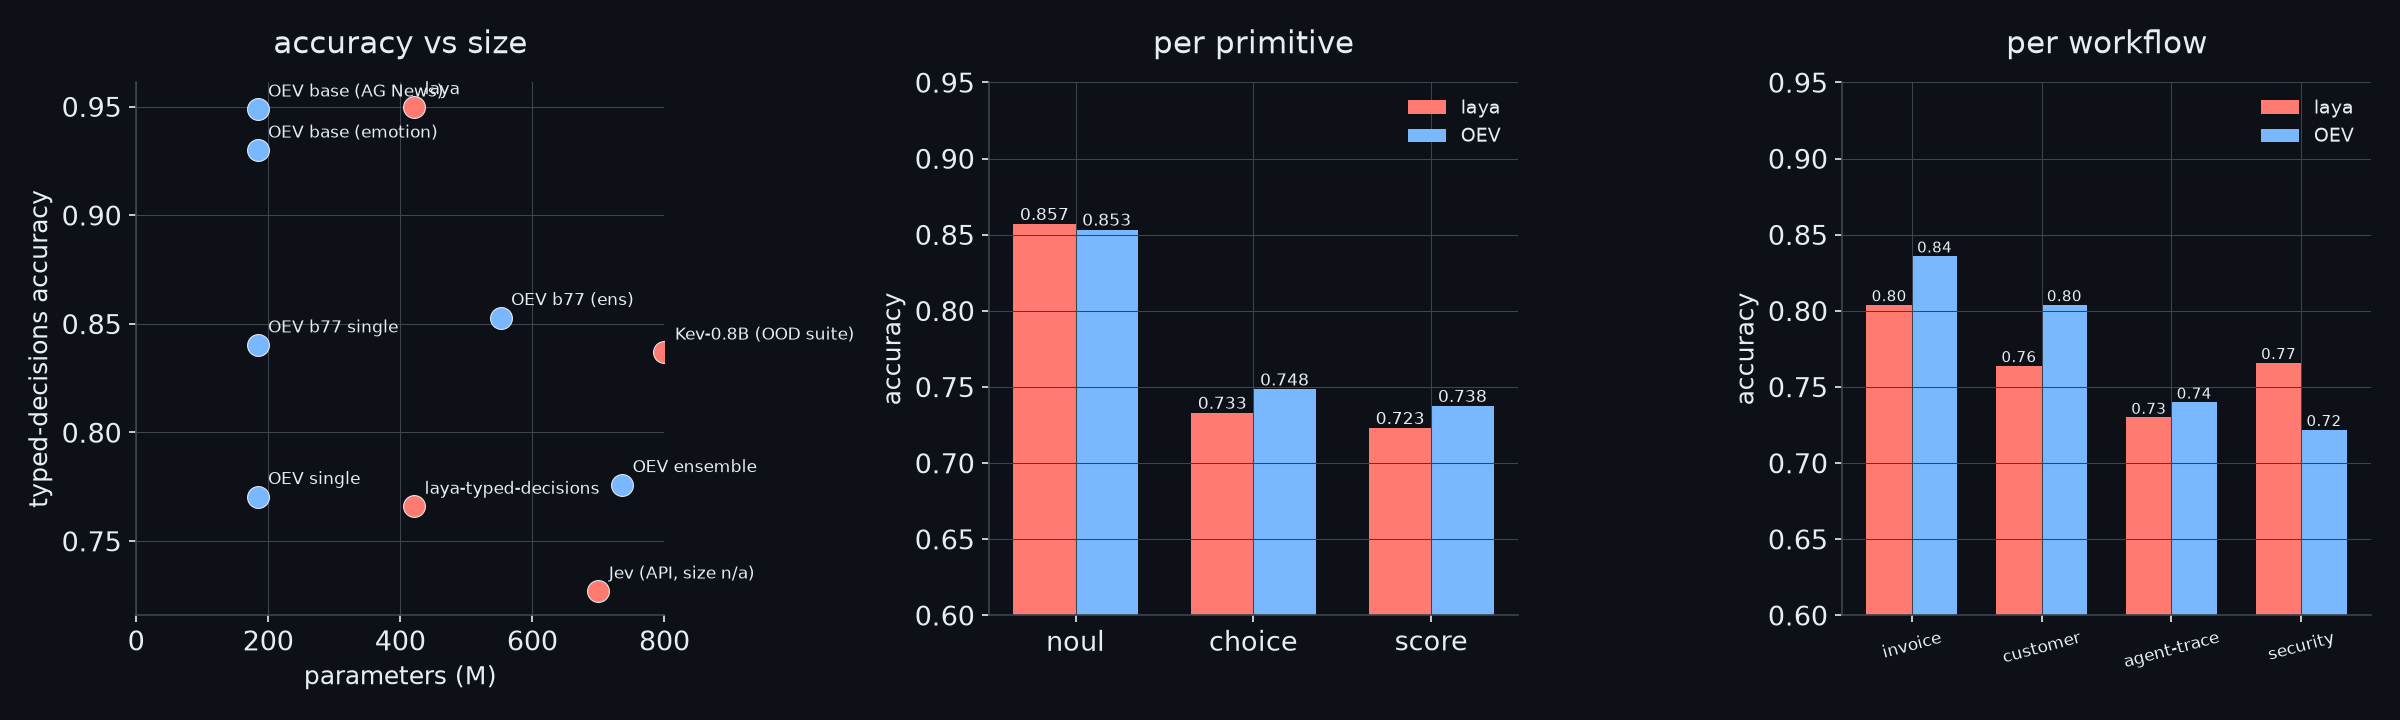
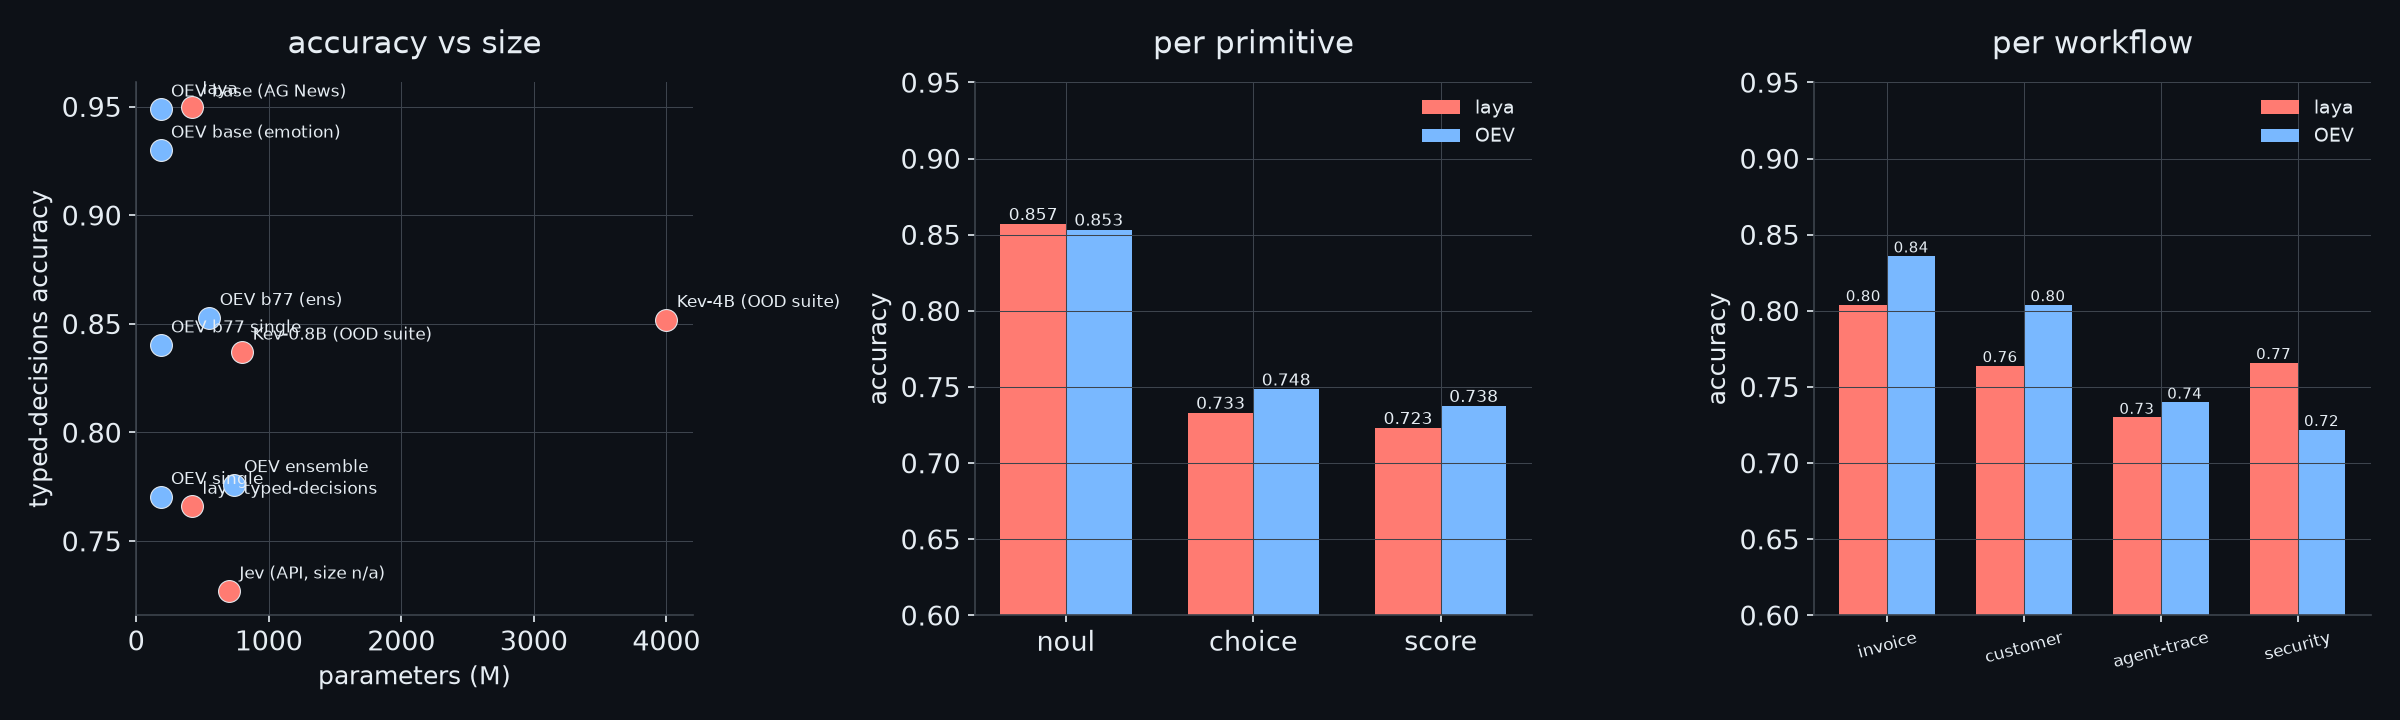
fix(charts): breakdown light variant inherited dark rcParams, reset theme before panel

diff --git a/scripts/make_charts.py b/scripts/make_charts.py
@@ -222,7 +222,16 @@ for tag, accent in (("dark", DARK_ACC),):
 print("dark variants written")
 
 
-# ---------------- Chart 5: three-up panel (params | primitive | workflow) ----------------
+# ---------------- Chart 5: three-up panel (params | primitive | workflow) ----------------# reset to the light theme: the dark-variant loop above overwrote rcParams globally
+plt.rcParams.update({
+    "figure.facecolor": "white",
+    "axes.facecolor": "white",
+    "text.color": "black",
+    "axes.edgecolor": "black",
+    "axes.labelcolor": "black",
+    "xtick.color": "black",
+    "ytick.color": "black",
+})
 fig, axes = plt.subplots(1, 3, figsize=(16, 4.8))
 
 # panel 1: accuracy vs params
@@ -284,7 +293,7 @@ for name, params, acc, _ in pts:
     ax.annotate(name.replace(" (this repo)", ""), (params, acc),
                 textcoords="offset points", xytext=(5, 6), fontsize=8, color=DARK_TEXT)
 ax.set_xlabel("parameters (M)"); ax.set_ylabel("typed-decisions accuracy")
-ax.set_title("accuracy vs size"); ax.set_xlim(0, 800)
+ax.set_title("accuracy vs size"); ax.set_xlim(0, 4200)
 
 ax = axes[1]
 b1 = ax.bar([i - w2/2 for i in x2], laya_p, w2, label="laya", color=RED)
